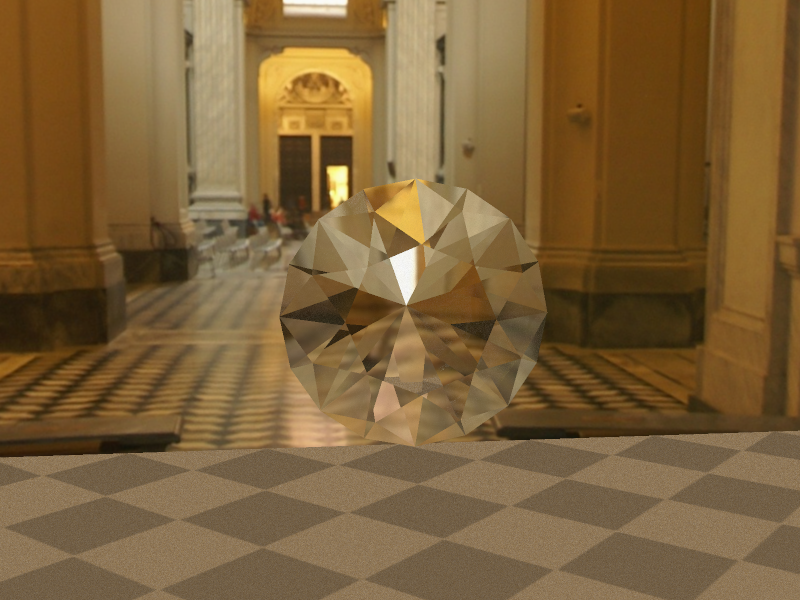
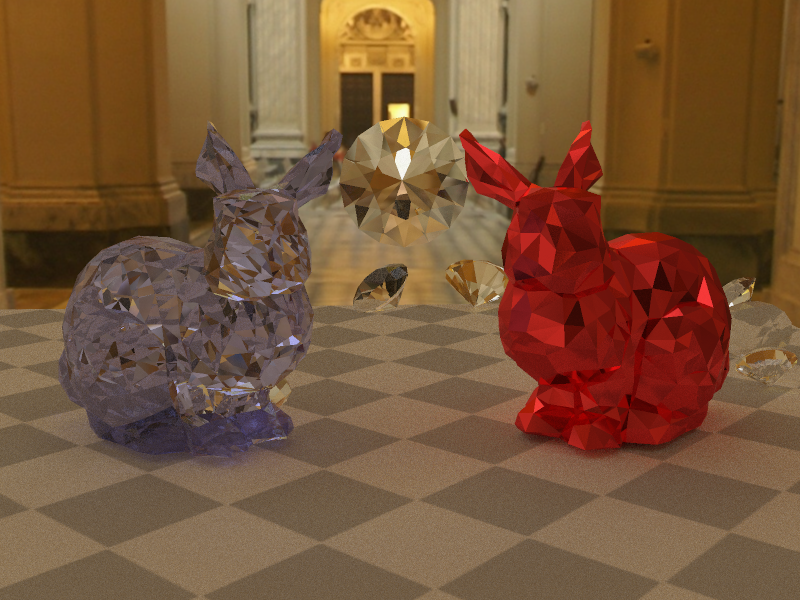
Add mesh by rand

diff --git a/src/main.rs b/src/main.rs
@@ -1,6 +1,7 @@
 extern crate num;
 extern crate image;
 extern crate time;
+extern crate rand;
 
 use std::fs::File;
 use std::path::Path;
@@ -8,6 +9,7 @@ use std::io::prelude::*;
 use std::fs;
 use std::io::{BufWriter, Write};
 use num::Float;
+use self::rand::{thread_rng, Rng};
 
 mod config;
 mod vector;
@@ -39,8 +41,8 @@ fn render() {
     //let mut imgbuf = image::ImageBuffer::new(1920, 1080);
 
     let camera = Camera::new(
-        Vector3::new(-0.5, 2.5, 4.0),// eye
-        Vector3::new(0.0, 2.0, 0.0),// target
+        Vector3::new(-0.5, 2.5, 8.0),// eye
+        Vector3::new(0.0, 1.0, 0.0),// target
         Vector3::new(0.0, 1.0, 0.0).normalize(),// y_up
         17.0,// fov
 
@@ -52,16 +54,27 @@ fn render() {
     let mut scene = Scene {
         elements: vec![
             // うさぎ
-            /*Box::new(BvhMesh::from_mesh(ObjLoader::load(
+            Box::new(BvhMesh::from_mesh(ObjLoader::load(
                 "models/bunny/bunny_face1000.obj",
-                Matrix44::scale_linear(1.0) * Matrix44::translate(0.0, 0.0, 0.0) * Matrix44::rotate_y(0.5),
+                Matrix44::scale_linear(1.5) * Matrix44::translate(1.2, 0.0, 0.0) * Matrix44::rotate_y(0.5),
                 Material {
                     surface: SurfaceType::GGX,
                     albedo: Texture::from_color(Color::new(1.0, 0.2, 0.2)),
                     emission: Texture::black(),
                     roughness: Texture::from_color(Color::from_one(0.1)),
                 },
-            ))),*/
+            ))),
+
+            Box::new(BvhMesh::from_mesh(ObjLoader::load(
+                "models/bunny/bunny_face1000.obj",
+                Matrix44::scale(-1.5, 1.5, 1.5) * Matrix44::translate(1.2, 0.0, 0.0) * Matrix44::rotate_y(0.5),
+                Material {
+                    surface: SurfaceType::Refraction { refractive_index: 1.5 },
+                    albedo: Texture::from_color(Color::new(0.7, 0.7, 1.0)),
+                    emission: Texture::black(),
+                    roughness: Texture::from_color(Color::from_one(0.1)),
+                },
+            ))),
 
             // 背後にある地図ガラス
             /*Box::new(AxisAlignedBoundingBox {
@@ -134,10 +147,18 @@ fn render() {
         ),
     };
 
-    /*for x in 0..5 {
+    let mut rng = thread_rng();
+
+    for x in 0..10 {
+        let px = rng.gen_range(-5.0, 5.0);
+        let py = 0.0;//rng.gen_range(0.0, 1.0);
+        let pz = rng.gen_range(-5.0, 5.0);
+        let s = rng.gen_range(0.2, 1.0);
+        let ry = rng.gen_range(-180.0.to_radians(), 180.0.to_radians());
+
         scene.add(Box::new(BvhMesh::from_mesh(ObjLoader::load(
             "models/dia/dia.obj",
-            Matrix44::translate(-4.0 + 1.7 * x as f64, 0.0, 2.0) * Matrix44::scale_linear(1.0) * Matrix44::rotate_y(-0.9 * x as f64) * Matrix44::rotate_x(40.9771237.to_radians()),
+            Matrix44::translate(px, py, pz) * Matrix44::scale_linear(s) * Matrix44::rotate_y(ry) * Matrix44::rotate_x(40.9771237.to_radians()),
             Material {
                 surface: SurfaceType::GGXReflection { refractive_index: 1.4 },
                 albedo: Texture::from_color(Color::new(1.0, 1.0, 1.0)),
@@ -147,6 +168,7 @@ fn render() {
         ))));
     }
 
+    /*
     for x in 0..4 {
         scene.add(Box::new(Sphere {
             center: Vector3::new(-3.0 + 2.0 * x as f64, 0.5, -2.0),
